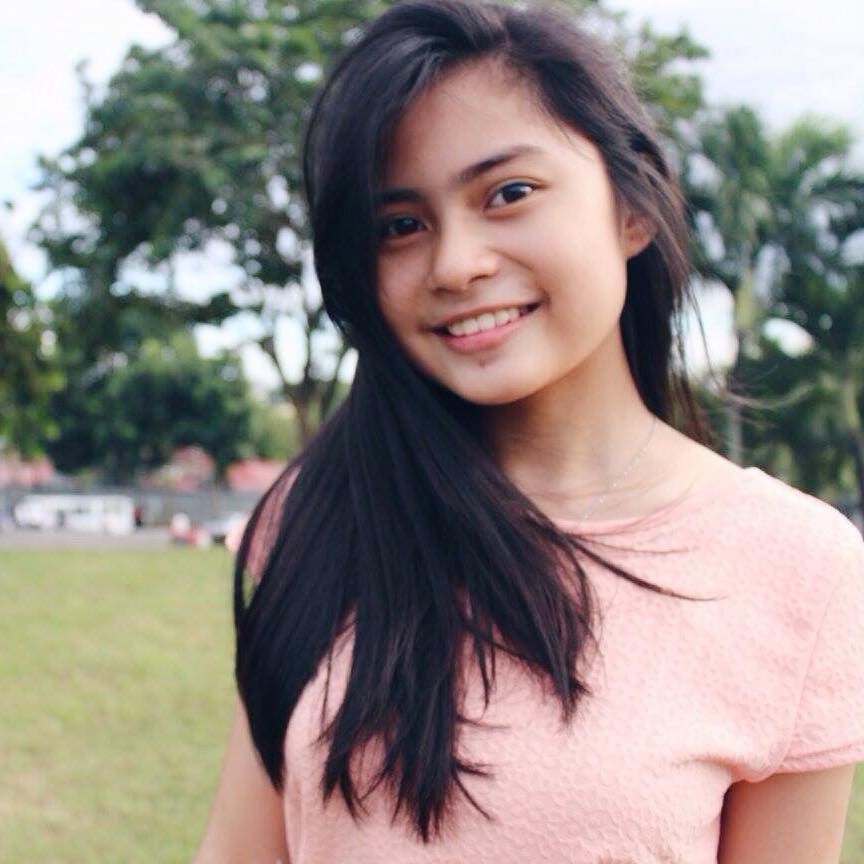
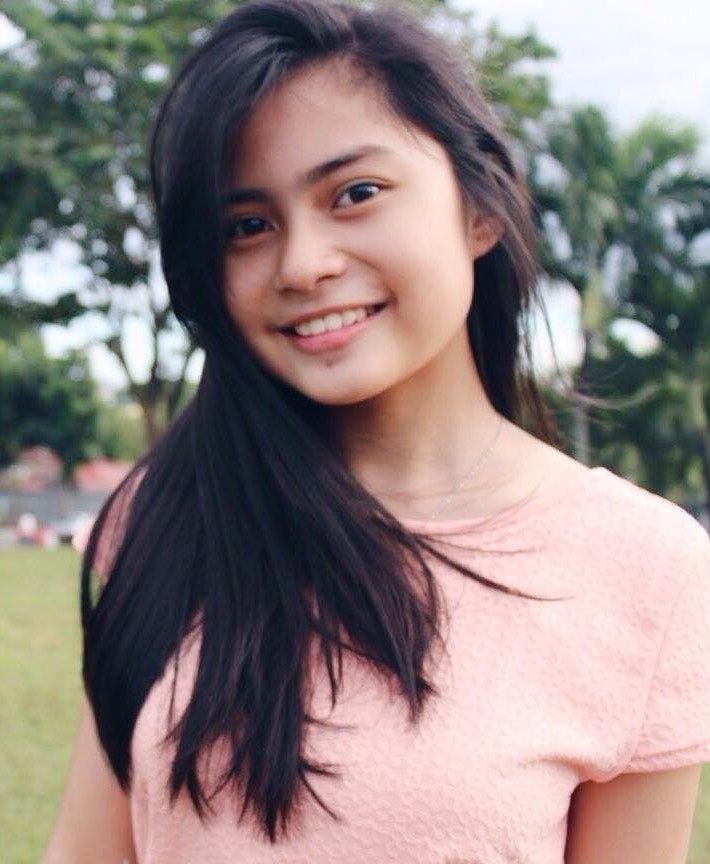
Dashboard photo changes

diff --git a/dashboard.php b/dashboard.php
@@ -352,9 +352,9 @@
 						</div>
 					</div>
 				</div>
-				<div id="entryfiller" style="float: left; background-image: url(assets/images/employees/Munar.jpg);">
+				<div id="entryfiller" style="float: left; background-image: url(assets/images/employees/Samantha.jpg);">
 					<div id="entry">
-						<h6 style="background-image: url(assets/images/employees/Munar.jpg);"></h6>
+						<h6 style="background-image: url(assets/images/employees/Samantha.jpg);"></h6>
 						<h5>Samantha Sy</h5>
 						<p>Human Resources</p>
 						<h4 class="loggedout">CLOCKED OUT</h3>
